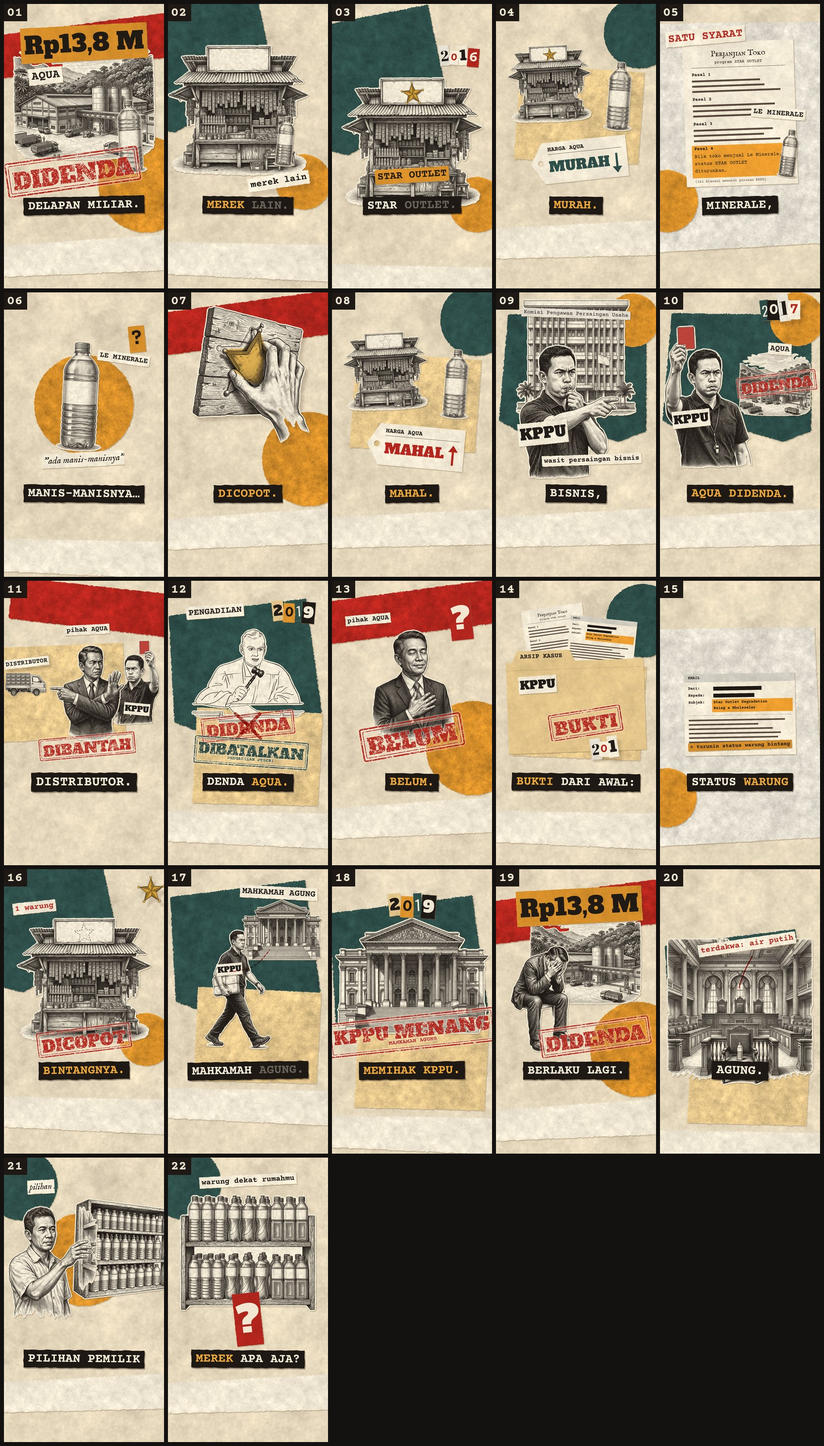
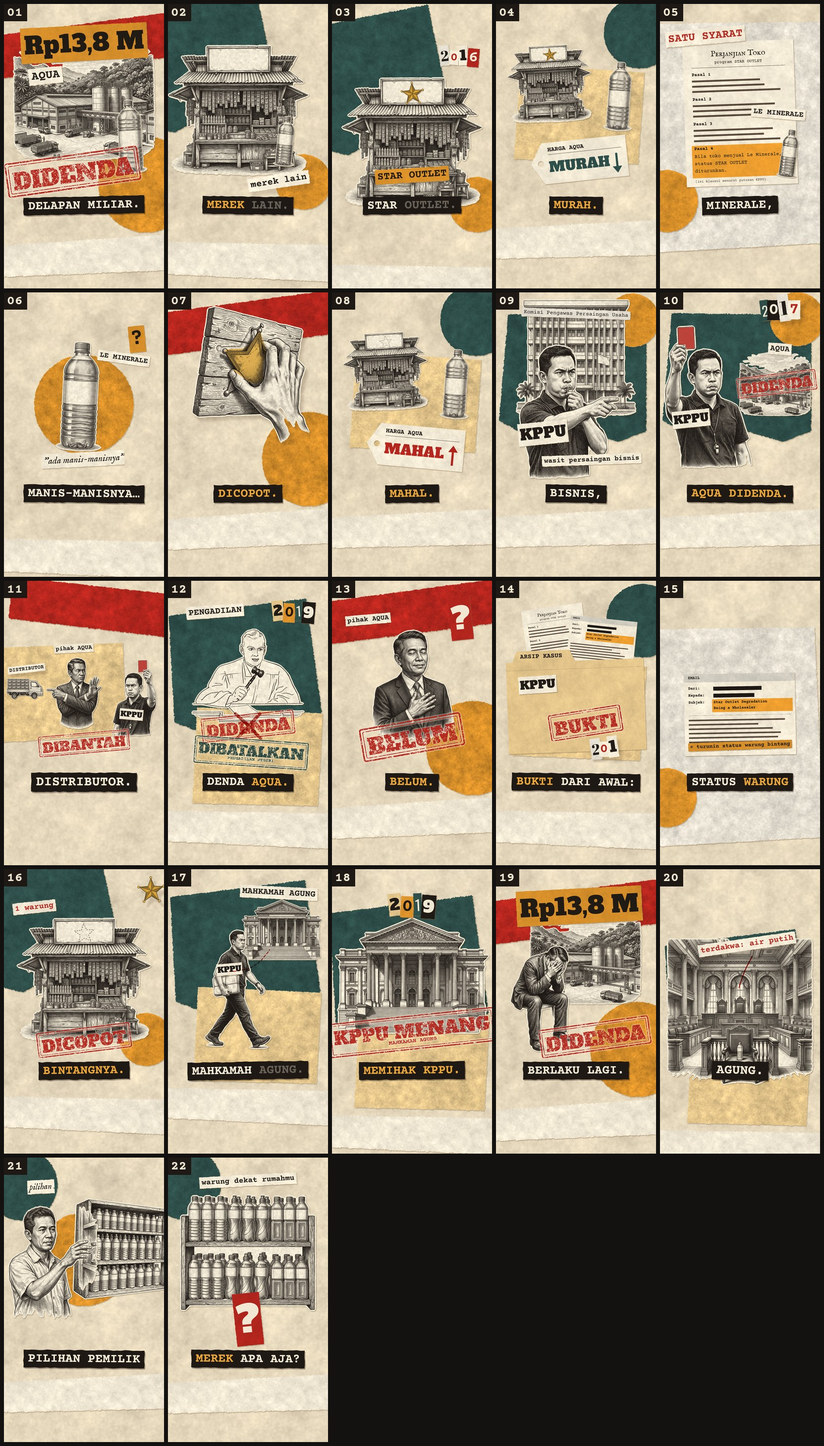
ARSIP #004 aqua: S11 proportions (equal head sizes, gap between people, finger on the truck)
Claude-Session: https://claude.ai/code/session_01BfnoLVZri9uAPP3UdHeCe6

Changed region(s): [[0.0, 0.404, 0.2182, 0.5283]]

diff --git a/stories/aqua/kolase/film.js b/stories/aqua/kolase/film.js
@@ -130,13 +130,14 @@ const SHOTS = [
   (u, T, d) => {
     const tb = at(10, 'membantah'), tk = at(10, 'katanya');
     stage(u, d, { z1: 1.05, shake: [[tb, 9]] }); bg(SET.deny);
-    putK('wasit_kartu_m', [[0, 865, 700, -2, 0, 1]], u, 125, { s: 0.55 });
-    putK('s_kppu', [[0, 880, 870, 5, 0, 1]], u, 126, { s: 0.42 });
-    putK('bos_bantah', slide(0, 0.25, 560, 770, 0, 0, 700, 0, 0.6), u, 120, { s: 0.8 });
-    putK('s_pihak', slap(0.3, 560, 360, -3), u, 124, { s: 0.85 });
-    stampAt('st_dibantah', u, tb, 560, 1110, -5, 0.9);
-    putK('truck', slide(tk, tk + 0.35, 165, 712, 0, -600, 0, 0, 0.8), u, 121, { s: 0.34 });
-    putK('s_distributor', slap(at(10, 'distributor'), 180, 590, -3), u, 123, { s: 0.7 });
+    // proportions: both people waist-up with the same head size (≈ 120 px), a clear gap between them; the finger ends at the truck cab
+    putK('wasit_kartu_m', [[0, 860, 800, -2, 0, 1]], u, 125, { s: 0.5 });
+    putK('s_kppu', [[0, 845, 905, 5, 0, 1]], u, 126, { s: 0.38 });
+    putK('bos_bantah', slide(0, 0.25, 475, 770, 0, 0, 700, 0, 0.6), u, 120, { s: 0.59 });
+    putK('s_pihak', slap(0.3, 475, 480, -3), u, 124, { s: 0.75 });
+    stampAt('st_dibantah', u, tb, 540, 1090, -5, 0.85);
+    putK('truck', slide(tk, tk + 0.35, 160, 740, 0, -600, 0, 0, 0.8), u, 121, { s: 0.3 });
+    putK('s_distributor', slap(at(10, 'distributor'), 180, 630, -3), u, 123, { s: 0.58 });
   },
   // 12 · Dan pengadilan… membatalkan denda Aqua.   (2019)
   (u, T, d) => {

diff --git a/.claude/skills/arsip-kasus/references/7-selera-dan-cara-kerja.md b/.claude/skills/arsip-kasus/references/7-selera-dan-cara-kerja.md
@@ -58,3 +58,4 @@ Dibaca **sebelum** mengirim apa pun ke user (shortlist, script, storyboard, film
 23. **Adegan lucu butuh kontras visual yang jelas** (botol air sendirian di kursi terdakwa ruang sidang megah, zoom dari dekat ke lebar), bukan sekadar benda kecil di depan gedung.
 24. **Review storyboard lewat halaman artifact yang bisa dikomentari** (bukan gambar grid): user menaruh komentar per shot tanpa "Send to Claude", lalu bilang "cek komentar" di chat; Claude membaca semua dengan `ArtifactComments read`, menjawab di chat, dan menulis jawaban per shot sebagai kotak "Revisi vN" di halaman.
 25. **Cap menempel pada pihak yang dikenai, jauh dari label pihak lain** (review S10 #004): label KPPU di sebelah cap DIDENDA terbaca "KPPU didenda". Cap hukuman ditempel langsung di benda/tokoh yang dihukum, di bawah labelnya sendiri.
+26. **Proporsi antar-gambar dalam satu frame harus wajar** (review S11 #004, "paskanlah proporsi tiap gambar"): dua orang dalam satu frame = ukuran kepala sama (ukur tinggi kepala di render, bukan perkiraan lebar gambar), ada jarak di antara mereka, dan gestur menunjuk harus berakhir tepat di bendanya. Cek keyframe sebelum dikirim.
